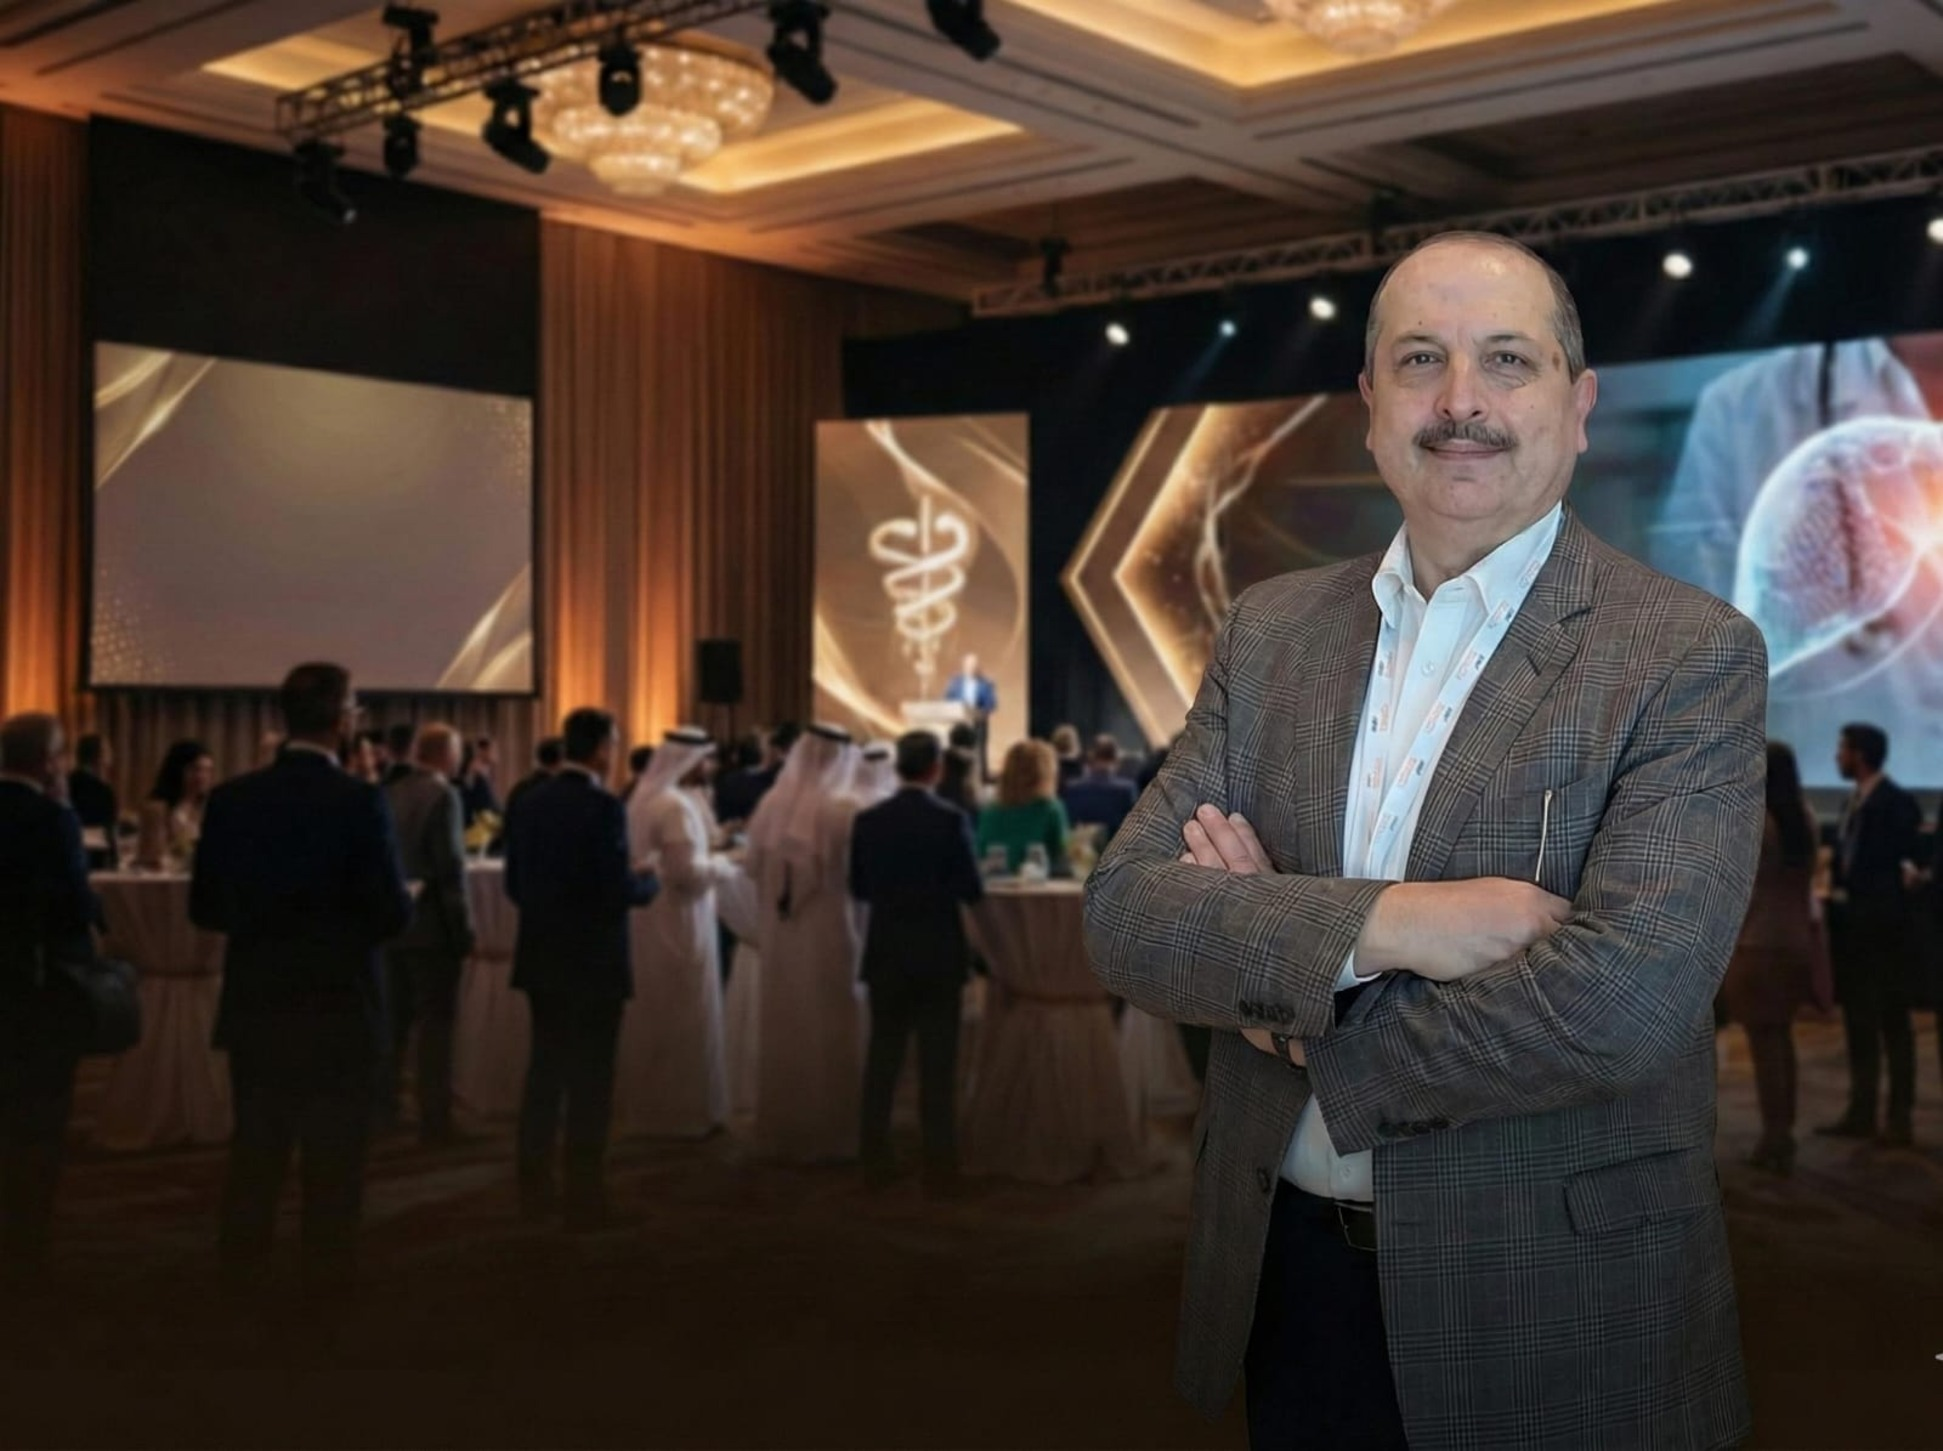
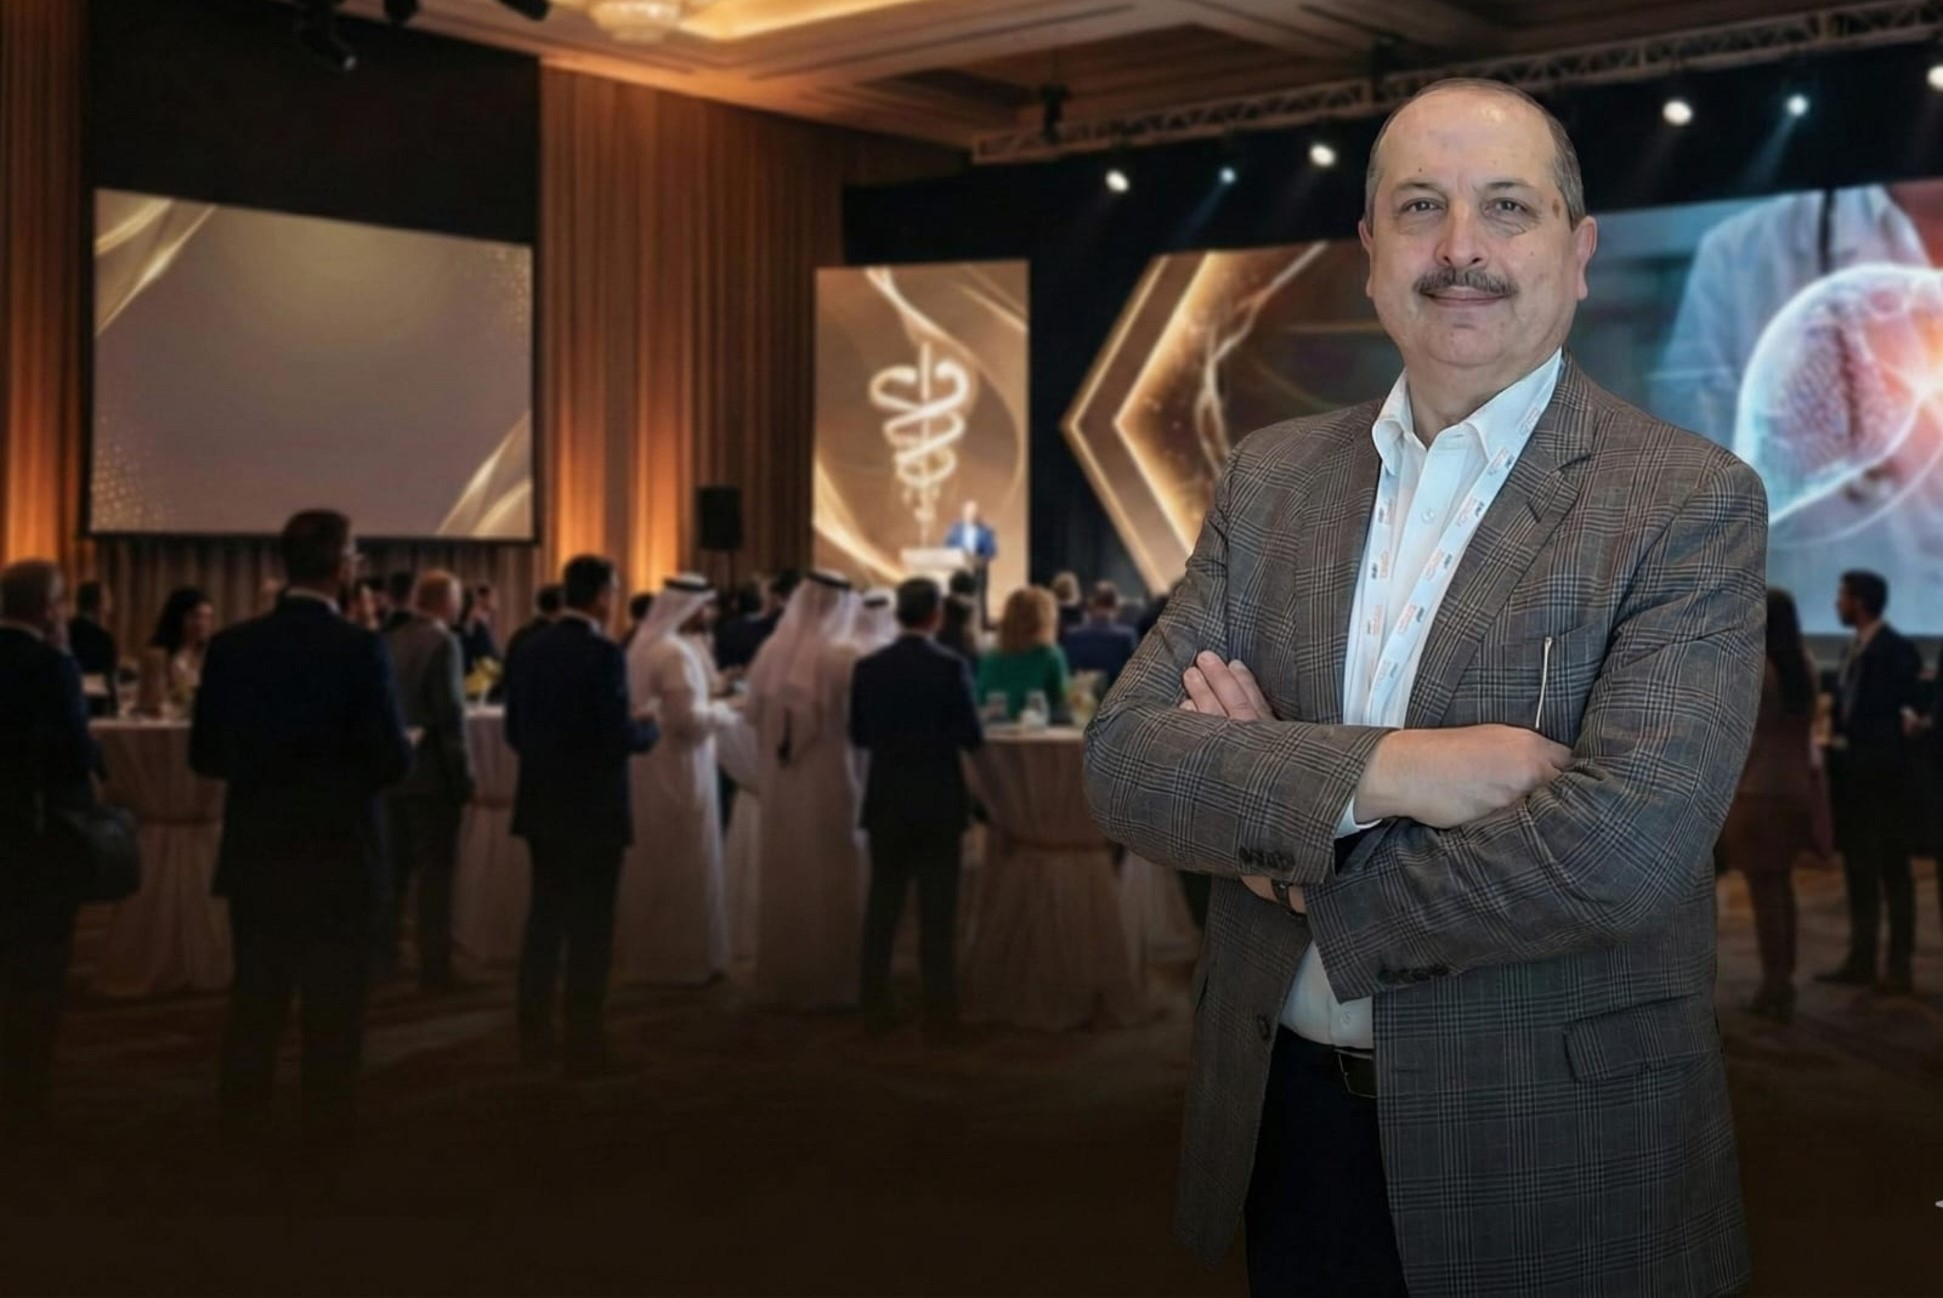
Updated changes

diff --git a/style.css b/style.css
@@ -281,16 +281,52 @@ a {
 
 
 /* Hero CSS  */
+
 .hero-container {
-  background: var(--tertiary-bg);
+  position: relative;
+  min-height: 100vh;
+  background-image: url("./assests/omar-hero2.jpg");
+  background-size: cover;
+  background-position: top;
+  background-repeat: no-repeat;
+
+  display: flex;
+  align-items: center;      /* ✅ vertical center */
+  justify-content: center;  /* ✅ horizontal center */
 }
 
-.hero-section {
+/* overlay */
+.hero-container::before {
+  content: "";
+  position: absolute;
+  inset: 0;
+  background: rgba(0, 0, 0, 0.5); /* adjust darkness */
+  z-index: 1;
+}
+
+/* hero content */
+.hero-content {
+  position: relative;
+  z-index: 2;
+  color: white;
+}
+
+/* .hero-section {
   padding-block: 5rem 0;
   display: flex;
   align-items: stretch;
 
+} */
+
+.hero-section {
+  width: 100%;
+  display: flex;
+  justify-content: center;
+  align-items: center;
+
+  padding: 0; /* override large paddings */
 }
+
 
 .hero-image {
   width: 30%;
@@ -308,7 +344,8 @@ a {
 
 .hero-content {
   width: 90%;
-  padding: 2rem 2rem;
+   margin-top: 0 !important; /* override all breakpoints */
+  padding: 2rem;
   text-align: center;
   display: flex;
   flex-direction: column;
@@ -364,6 +401,7 @@ a {
   border-radius: 24px 24px 4px 4px;
   padding: 8px;
   box-shadow: 0 8px 20px rgba(0, 0, 0, 0.16);
+  
 }
 
 .hero-text span {
@@ -376,6 +414,7 @@ a {
   width: 3px;
   background-color: white;
   margin-inline: 8px;
+  
 }
 
 
@@ -384,15 +423,18 @@ a {
   font-weight: 400;
   line-height: 1.2;
   margin-bottom: 1rem;
+  
 }
 
 .hero-content .hero-desc {
   margin-bottom: 2rem;
+  
 }
 
 .hero-desc p {
   font-size: 18px;
   margin-bottom: 0.8rem;
+  
 }
 
 .buttons {
@@ -410,10 +452,10 @@ a {
   border-radius: 2rem;
   border: 1px solid #78b4e6;
   box-shadow: 0 8px 20px rgba(0, 0, 0, 0.1);
-  background: rgba(255, 255, 255, 0.15);
+  background: transparent;
   backdrop-filter: blur(12px);
   -webkit-backdrop-filter: blur(12px);
-  color: var(--text-color);
+  color: white;
   cursor: pointer;
   position: relative;
   overflow: hidden;
@@ -425,7 +467,6 @@ a {
   transform: translateY(-4px);
   box-shadow: 0 8px 25px rgba(0, 0, 0, 0.12);
 }
-
 .gallery-btn {
   padding: 0.6rem 1.2rem;
   font-size: 20px;
@@ -798,6 +839,7 @@ textarea {
 .contact-btn {
   width: 100%;
   border-color: var(--accent-color);
+  color: black ; 
 }
 
 /* FOOTER CSS */
@@ -957,29 +999,6 @@ i {
 
 /* Responsive */
 
-@media (max-width: 1320px) {
-   .hero-section {
-    padding-block: 4rem 3rem;
-    flex-direction: column-reverse;
-    gap: 2rem;
-  }
-
-  .hero-content {
-    width: 100%;
-  }
-
-  .hero-image {
-    width: 100%;
-    height: 560px;
-  }
-
-  .hero-image img {
-    object-position: top;
-  }
-}
-
-
-
 @media (max-width: 998px) {
   .menu {
     position: absolute;
@@ -1084,6 +1103,7 @@ i {
 }
 
 
+
 @media (max-width: 768px) {
   .logo a img {
     width: 8rem;
@@ -1095,6 +1115,10 @@ i {
     gap: 1.5rem;
     justify-content: center;
     margin-bottom: 1.5rem;
+  }
+  .hero-container{
+    background-position: right;
+    padding-top: 2rem;
   }
 
   .hero-content {
@@ -1368,10 +1392,6 @@ i {
   }
 }
 
-.hero-image {
-  width: 100%;
-  height: auto;
-}
 
 /* Card css */
 /* ---- Main Section ---- */
@@ -1417,89 +1437,6 @@ i {
   color: #2e2e2e;
 }
 
-/* ---- Responsive ---- */
-@media (max-width: 480px) {
-
-  .quote-section {
-    padding: 0rem 1rem;
-  }
-
-  .quote-card {
-    padding: 22px;
-    margin-top: 1.2rem;
-    margin-bottom: 2rem;
-  }
-
-  .quote-card blockquote {
-    font-size: 1rem;
-  }
-}
-
-/* Animations */
-.quote-card {
-  animation: fadeUp 2s ease-out forwards, floating 3s ease-in-out infinite;
-}
-
-/* Floating keyframes */
-@keyframes floating {
-  0% {
-    transform: translateY(0);
-  }
-
-  50% {
-    transform: translateY(-8px);
-  }
-
-  100% {
-    transform: translateY(0);
-  }
-}
 
 
-/* Default (Desktop) */
-/* .hero-image img {
-  width: 100%;
-  height: auto;
-  object-fit: cover;
-  display: block;
- 
-}
 
-/* Laptop screens */
-@media (max-width: 1200px) {
-  .hero-image img {
-    width: 100%;
-  }
-}
-
-/* Tablets */
-@media (max-width: 992px) {
-  .hero-image img {
-    width: 100%;
-  }
-}
-
-/* Mobile Large */
-@media (max-width: 768px) {
-  .hero-image img {
-    width: 100%;
-    max-height: 350px;
-    object-fit: cover;
-  }
-}
-
-/* Mobile Small */
-@media (max-width: 576px) {
-  .hero-image img {
-    width: 100%;
-    max-height: 300px;
-  }
-}
-
-/* Extra Small Phones */
-@media (max-width: 420px) {
-  .hero-image img {
-    width: 100%;
-    max-height: 250px;
-  }
-} */

diff --git a/index.html b/index.html
@@ -77,24 +77,6 @@
                 </div>
                 <h2 class="animate-on-scroll delay-2">Redefining Precision in Metabolic Health & Endocrinology. </h2>
                 <div class="hero-desc">
-
-                    <!-- <div class="hero-text animate-card-on-scroll">
-                        <span>Double American Board-Certified Consultant Endocrinologist (USA)</span>
-                        <div class="h-line"></div>
-                        <span> Fellow
-                            of the American Association of Clinical Endocrinologists (FACE) </span>
-                        <div class="h-line"></div>
-                        <span>Leader in Diabetes
-                            Technology & Thyroid Care. </span>
-                    </div> -->
-
-                    <!-- <p class="animate-on-scroll delay-3">
-
-                        Double American Board-Certified Consultant <strong>Endocrinologist</strong> (USA) | Fellow
-                        of the American Association of Clinical Endocrinologists (FACE) | <strong>Leader in </strong>
-                        Diabetes
-                        Technology & Thyroid Care.
-                    </p> -->
                     <p class="animate-on-scroll delay-3">
                         Leader in Diabetes Technology & Thyroid Care.
                     </p>
@@ -109,9 +91,9 @@
                     <a href="#journey"><button class="hero-btn">Book a Consultation </button></a>
                 </div>
             </div>
-            <div class="hero-image animate-on-scroll animate-right">
+            <!-- <div class="hero-image animate-on-scroll animate-right">
                 <img src="./assests/omar-hero2.jpg" alt="Dr Omar Dhaimat">
-            </div>
+            </div> -->
         </div>
     </section>
     <!-- Hero ends here -->
